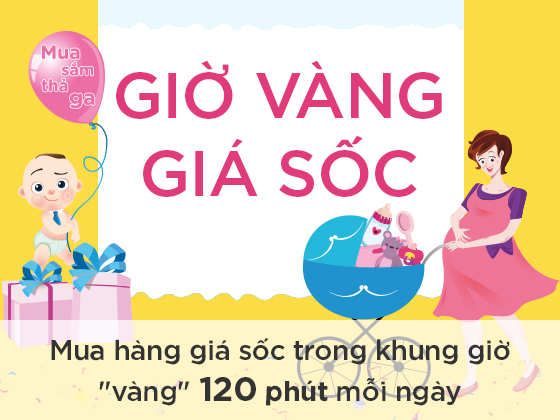
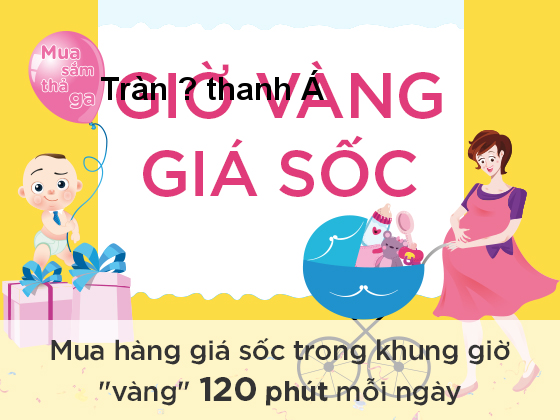
UPDATY

Changed region(s): [[0.1821, 0.1548, 0.5768, 0.2476]]

diff --git a/gmz.js b/gmz.js
@@ -4,10 +4,10 @@ var fs = require('fs')
 // resize and remove EXIF profile data
 gm('z.jpg')
     //.resize(240, 240)
-    .font("timesbd.ttf", 32)
-    .drawText('text_data.txt')
-    .noProfile()
+    .font("arialbd.ttf", 32)
+    .drawText(100,100,'Tràn ợ thanh Á')
+    .encoding('Unicode')
     .write('resize.png', function (err) {
-        if (!err) console.log('done');
+        //if (!err) console.log('done');
         console.log(err);
     });
